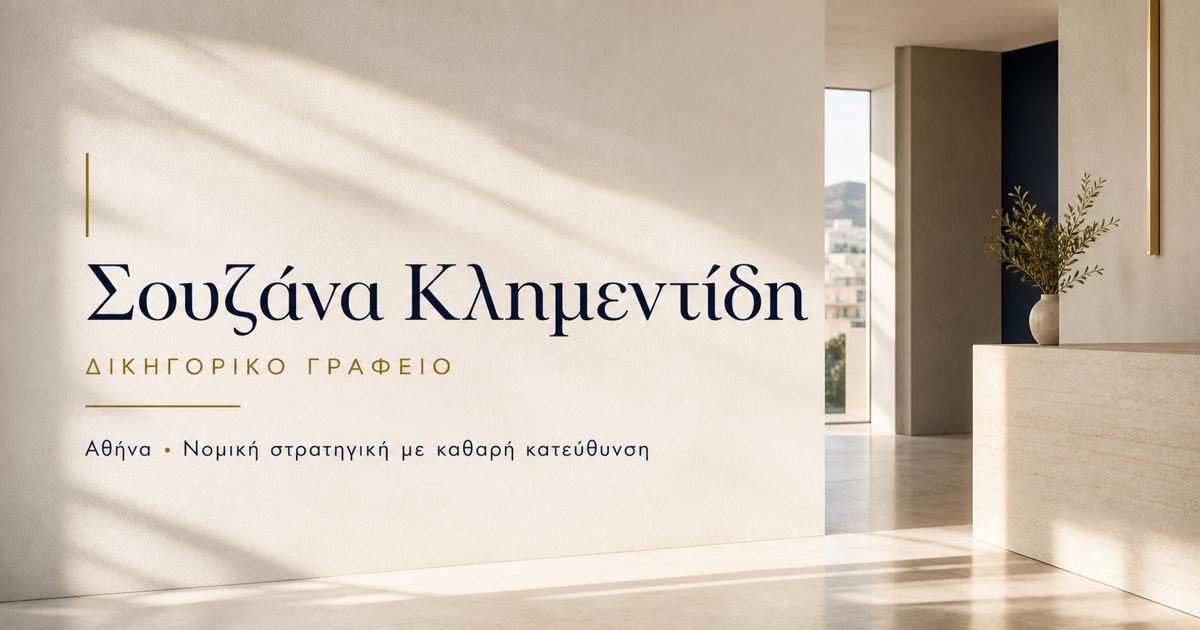
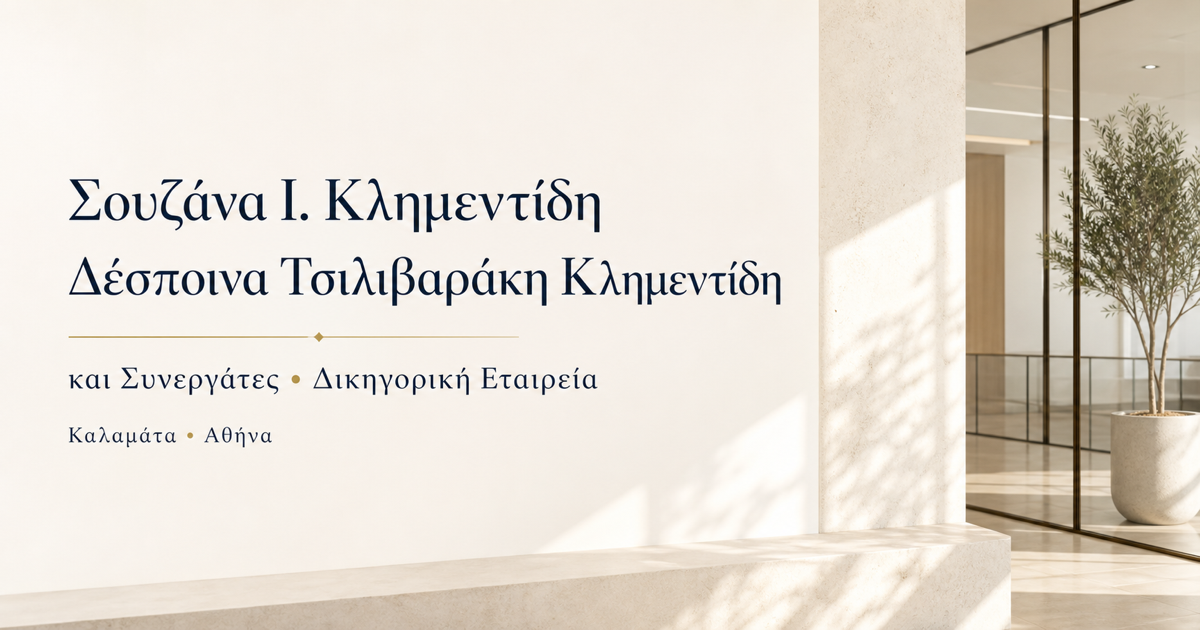
update firm name and office locations

diff --git a/lib/content.ts b/lib/content.ts
@@ -82,12 +82,14 @@ export type TeamProfile = {
 }
 
 export const site = {
-  name: "Σουζάνα Κλημεντίδη",
+  name: "ΣΟΥΖΑΝΑ Ι. ΚΛΗΜΕΝΤΙΔΗ - ΔΕΣΠΟΙΝΑ ΤΣΙΛΙΒΑΡΑΚΗ ΚΛΗΜΕΝΤΙΔΗ ΚΑΙ ΣΥΝΕΡΓΑΤΕΣ (ΔΙΚΗΓΟΡΙΚΗ ΕΤΑΙΡΕΙΑ)",
+  shortName: "Κλημεντίδη – Τσιλιβαράκη",
   wordmark: {
-    title: "Σουζάνα Κλημεντίδη",
-    subtitle: "Δικηγορικό Γραφείο",
+    primary: "Σουζάνα Ι. Κλημεντίδη",
+    secondary: "— Δέσποινα Τσιλιβαράκη Κλημεντίδη",
+    subtitle: "και Συνεργάτες (Δικηγορική Εταιρεία)",
   },
-  city: "Αθήνα",
+  city: "Καλαμάτα • Αθήνα",
   url: "https://kl1me.github.io/souzana",
   nav: [
     { href: "/practice-areas", label: "Τομείς" },
@@ -97,15 +99,28 @@ export const site = {
     { href: "/contact", label: "Επικοινωνία" },
   ] satisfies NavItem[],
   contact: {
-    address: "Βασιλίσσης Σοφίας 12, 106 74 Αθήνα",
+    offices: [
+      {
+        label: "Κεντρικό",
+        address: "Φιλελλήνων 2, Καλαμάτα",
+        streetAddress: "Φιλελλήνων 2",
+        city: "Καλαμάτα",
+      },
+      {
+        label: "Υποκατάστημα",
+        address: "Μέρλιν 3, Αθήνα",
+        streetAddress: "Μέρλιν 3",
+        city: "Αθήνα",
+      },
+    ],
     hours: "Δευ–Παρ 09:00–18:00",
     phone: "",
     email: "contact@souzana-klimentidi.gr",
   },
   seo: {
-    title: "Σουζάνα Κλημεντίδη | Αθήνα",
+    title: "Κλημεντίδη – Τσιλιβαράκη | Δικηγορική Εταιρεία",
     description:
-      "Δικηγορικό γραφείο στην Αθήνα με εμπειρία σε αφερεγγυότητα, τραπεζικό, ναυτιλιακό και επενδυτικό δίκαιο.",
+      "Δικηγορική εταιρεία με κεντρικό γραφείο στην Καλαμάτα και υποκατάστημα στην Αθήνα.",
   },
   legal: {
     footer: [
@@ -119,7 +134,7 @@ export const site = {
 
 export const home = {
   hero: {
-    eyebrow: "ΑΘΗΝΑ",
+    eyebrow: "ΚΑΛΑΜΑΤΑ • ΑΘΗΝΑ",
     title: "Νομική στρατηγική με καθαρή κατεύθυνση",
     subtitle:
       "Υποστήριξη σε αφερεγγυότητα, τραπεζικό, ναυτιλιακό και επενδυτικό δίκαιο — με υπεύθυνη ενημέρωση σε κάθε στάδιο.",
@@ -402,17 +417,17 @@ export const pages = {
     description: "Προσωπική επίβλεψη, διεθνής εκπαίδευση και συντονισμένο δίκτυο συνεργατών.",
     profile: {
       eyebrow: "Προφίλ",
-      title: "Σουζάνα Κλημεντίδη",
+      title: "Σουζάνα Ι. Κλημεντίδη",
       role: "Δικηγόρος – Managing Partner",
       summary: [
-        "Managing Partner του γραφείου με έδρα την Αθήνα.",
+        "Managing Partner της εταιρείας με κεντρικό γραφείο στην Καλαμάτα και υποκατάστημα στην Αθήνα.",
         "Εξειδίκευση σε αφερεγγυότητα, τραπεζικό, ναυτιλιακό και επενδυτικό δίκαιο.",
         "Νομική σύμβουλος του Οικονομικού Επιμελητηρίου Ελλάδος.",
         "Συχνές παρεμβάσεις σε τηλεόραση και ραδιόφωνο.",
       ],
       experience: [
         {
-          title: "Δικηγορικό Γραφείο Σουζάνα Κλημεντίδη",
+          title: "Κλημεντίδη – Τσιλιβαράκη και Συνεργάτες",
           period: "08/2014 – σήμερα",
           details: [
             "Ναυτιλιακό, εταιρικό, τραπεζικό και διεθνές δίκαιο.",
@@ -478,7 +493,7 @@ export const pages = {
       ],
       image: {
         src: assetPath("/images/team-1.jpg"),
-        alt: "Πορτρέτο της Σουζάνα Κλημεντίδη",
+        alt: "Πορτρέτο της Σουζάνα Ι. Κλημεντίδη",
       },
     } satisfies TeamProfile,
   },
@@ -517,7 +532,7 @@ export const pages = {
       {
         title: "Υπεύθυνος επικοινωνίας",
         items: [
-          "Δικηγορικό Γραφείο Σουζάνα Κλημεντίδη",
+          site.name,
           "Για ερωτήσεις απορρήτου μπορείτε να χρησιμοποιήσετε το email επικοινωνίας του γραφείου.",
         ],
       },

diff --git a/components/layout/Footer.tsx b/components/layout/Footer.tsx
@@ -8,10 +8,11 @@ export default function Footer() {
       <Container className="grid gap-10 py-12 sm:py-16 md:grid-cols-[1.1fr_1fr_1fr]">
         <div className="space-y-4">
           <div className="space-y-1">
-            <p className="font-serif text-2xl tracking-[0.06em] sm:text-3xl">
-              {site.wordmark.title}
+            <p className="flex flex-col font-serif text-xl leading-tight tracking-[0.02em] sm:text-2xl">
+              <span>{site.wordmark.primary}</span>
+              <span>{site.wordmark.secondary}</span>
             </p>
-            <p className="text-[0.65rem] uppercase tracking-[0.5em] text-muted-foreground">
+            <p className="text-[0.58rem] uppercase tracking-[0.25em] text-muted-foreground">
               {site.wordmark.subtitle}
             </p>
           </div>
@@ -19,7 +20,16 @@ export default function Footer() {
         </div>
         <div className="flex flex-col items-start gap-3 text-sm">
           <p className="font-semibold text-foreground">Επικοινωνία</p>
-          <p className="text-muted-foreground">{site.contact.address}</p>
+          <div className="space-y-3">
+            {site.contact.offices.map((office) => (
+              <div key={office.label}>
+                <p className="text-xs font-semibold uppercase tracking-[0.14em] text-foreground">
+                  {office.label}
+                </p>
+                <p className="mt-1 text-muted-foreground">{office.address}</p>
+              </div>
+            ))}
+          </div>
           <p className="text-muted-foreground">{site.contact.hours}</p>
           {site.contact.phone ? (
             <a

diff --git a/app/layout.tsx b/app/layout.tsx
@@ -20,7 +20,7 @@ export const metadata: Metadata = {
   metadataBase: new URL(site.url),
   title: {
     default: site.seo.title,
-    template: `%s | ${site.name}`,
+    template: `%s | ${site.shortName}`,
   },
   description: site.seo.description,
   alternates: {
@@ -30,7 +30,7 @@ export const metadata: Metadata = {
     title: site.seo.title,
     description: site.seo.description,
     url: site.url,
-    siteName: site.name,
+    siteName: site.shortName,
     locale: "el_GR",
     type: "website",
     images: [
@@ -38,7 +38,7 @@ export const metadata: Metadata = {
         url: `${site.url}/og.png`,
         width: 1200,
         height: 630,
-        alt: `${site.name} — Δικηγορικό Γραφείο`,
+        alt: `${site.shortName} — Δικηγορική Εταιρεία`,
       },
     ],
   },
@@ -60,14 +60,13 @@ export default function RootLayout({
     "@type": "LegalService",
     name: site.name,
     url: site.url,
-    areaServed: "Αθήνα, Ελλάδα",
-    address: {
+    areaServed: ["Καλαμάτα, Ελλάδα", "Αθήνα, Ελλάδα"],
+    address: site.contact.offices.map((office) => ({
       "@type": "PostalAddress",
-      streetAddress: site.contact.address,
-      addressLocality: "Αθήνα",
-      postalCode: "106 74",
+      streetAddress: office.streetAddress,
+      addressLocality: office.city,
       addressCountry: "GR",
-    },
+    })),
     ...(site.contact.phone ? { telephone: site.contact.phone } : {}),
     email: site.contact.email,
   }

diff --git a/app/contact/page.tsx b/app/contact/page.tsx
@@ -41,13 +41,22 @@ export default function ContactPage() {
             </div>
             <div className="rounded-3xl border border-border/60 bg-card p-8">
               <p className="text-xs font-semibold uppercase tracking-[0.2em] text-muted-foreground">
-                Γραφείο
+                Γραφεία
               </p>
               <h3 className="mt-3 text-2xl font-semibold font-serif">
                 {site.city}
               </h3>
-              <div className="mt-4 space-y-2 text-sm text-muted-foreground">
-                <p>{site.contact.address}</p>
+              <div className="mt-5 grid gap-4 text-sm sm:grid-cols-2">
+                {site.contact.offices.map((office) => (
+                  <div key={office.label} className="border-l border-accent/50 pl-3">
+                    <p className="text-xs font-semibold uppercase tracking-[0.14em] text-foreground">
+                      {office.label}
+                    </p>
+                    <p className="mt-1 text-muted-foreground">{office.address}</p>
+                  </div>
+                ))}
+              </div>
+              <div className="mt-5 flex flex-col items-start gap-2 text-sm text-muted-foreground">
                 <p>{site.contact.hours}</p>
                 {site.contact.phone ? (
                   <a

diff --git a/components/layout/Header.tsx b/components/layout/Header.tsx
@@ -32,13 +32,14 @@ export default function Header() {
       <div className="mx-auto flex h-20 w-full max-w-[1200px] items-center justify-between px-5 sm:h-24 sm:px-6">
         <Link
           href="/"
-          className="min-w-0 flex flex-col gap-1 text-base font-semibold leading-none"
-          aria-label={`${site.wordmark.title} — ${site.wordmark.subtitle}`}
+          className="flex min-w-0 max-w-[275px] flex-col gap-1 font-semibold leading-none sm:max-w-[420px]"
+          aria-label={site.name}
         >
-          <span className="whitespace-nowrap font-serif text-[2rem] tracking-[0.035em] sm:text-4xl lg:text-[2.85rem]">
-            {site.wordmark.title}
+          <span className="flex flex-col font-serif text-[1.05rem] leading-[0.98] tracking-[0.02em] text-foreground sm:text-xl lg:text-[1.35rem]">
+            <span>{site.wordmark.primary}</span>
+            <span>{site.wordmark.secondary}</span>
           </span>
-          <span className="text-[0.55rem] uppercase tracking-[0.38em] text-muted-foreground sm:text-[0.6rem] sm:tracking-[0.5em]">
+          <span className="text-[0.46rem] uppercase tracking-[0.18em] text-muted-foreground sm:text-[0.55rem] sm:tracking-[0.28em]">
             {site.wordmark.subtitle}
           </span>
         </Link>

diff --git a/lib/metadata.ts b/lib/metadata.ts
@@ -5,7 +5,7 @@ const socialImage = {
   url: `${site.url}/og.png`,
   width: 1200,
   height: 630,
-  alt: `${site.name} — Δικηγορικό Γραφείο`,
+  alt: `${site.shortName} — Δικηγορική Εταιρεία`,
 }
 
 export function createPageMetadata(
@@ -24,7 +24,7 @@ export function createPageMetadata(
       title,
       description,
       url,
-      siteName: site.name,
+      siteName: site.shortName,
       locale: "el_GR",
       type: "website",
       images: [socialImage],

diff --git a/README.md b/README.md
@@ -1,6 +1,6 @@
 # Souzana Klimentidi Law Office Website
 
-Professional website for Souzana Klimentidi, a law office based in Athens. The project presents practice areas, team profiles, legal insights, media appearances, privacy information, and a contact flow in a polished Greek-language experience.
+Professional website for Klimentidi – Tsilivaraki & Associates, a law firm with its central office in Kalamata and a branch in Athens. The project presents practice areas, team profiles, legal insights, media appearances, privacy information, and a contact flow in a polished Greek-language experience.
 
 ## Live site
 
